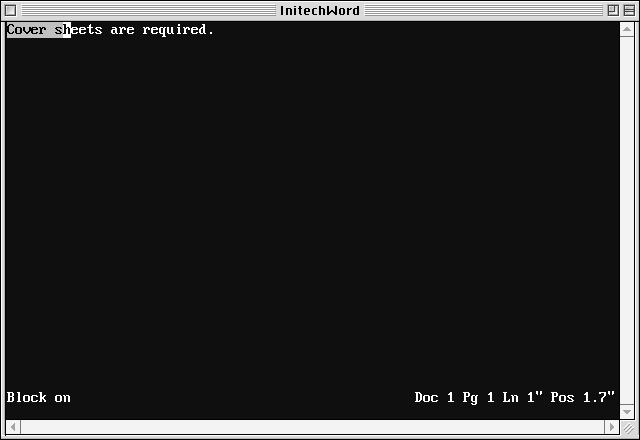
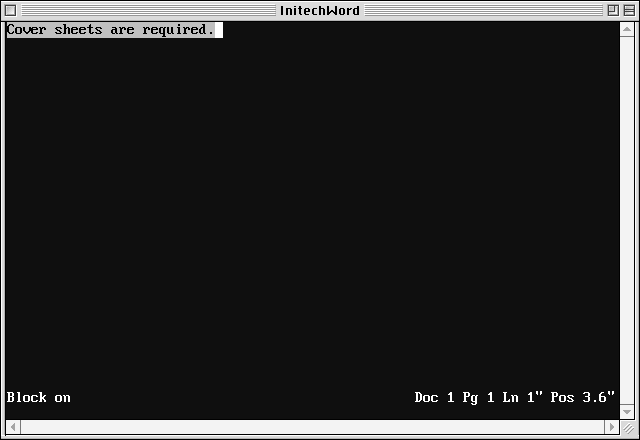
pubs(iword): block figure stretched with one key (End): repeated fast keypresses can drop on the desktop event path; figures re-captured identical 3x (initech-ipu5.10)
Claude-Session: https://claude.ai/code/session_01LTJT1wpvnvRD2e3ZB7mdKD

Changed region(s): [[0.0938, 0.0295, 0.375, 0.0886], [0.9062, 0.8864, 0.9688, 0.9159]]

diff --git a/pubs/manuals/initechword-reference/ref-b.tex b/pubs/manuals/initechword-reference/ref-b.tex
@@ -26,7 +26,7 @@ The highlight follows the cursor.
 (\K{F6}), Underline (\K{F8}), Font (\K{Ctrl-F8}), Move (\K{Ctrl-F4}), or
 \K{Delete}.
 \end{WPSteps}
-\FlairShot{block}{640}{440}{Block on: the first two words of the sentence blocked}
+\FlairShot{block}{640}{440}{Block on: the sentence blocked from its start to the cursor}
 
 \Documents{wpkey}{Alt-F4}
 \Documents{wpkey}{Block:Alt-F4}
